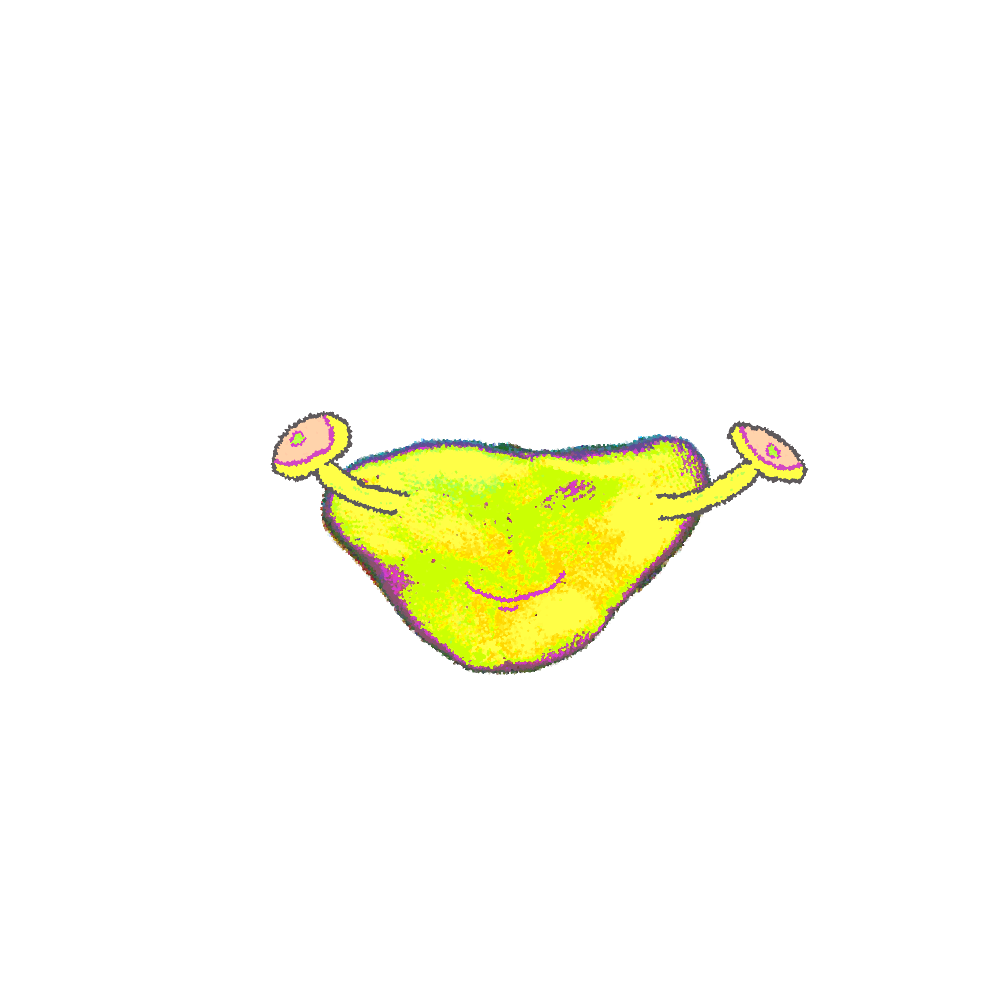
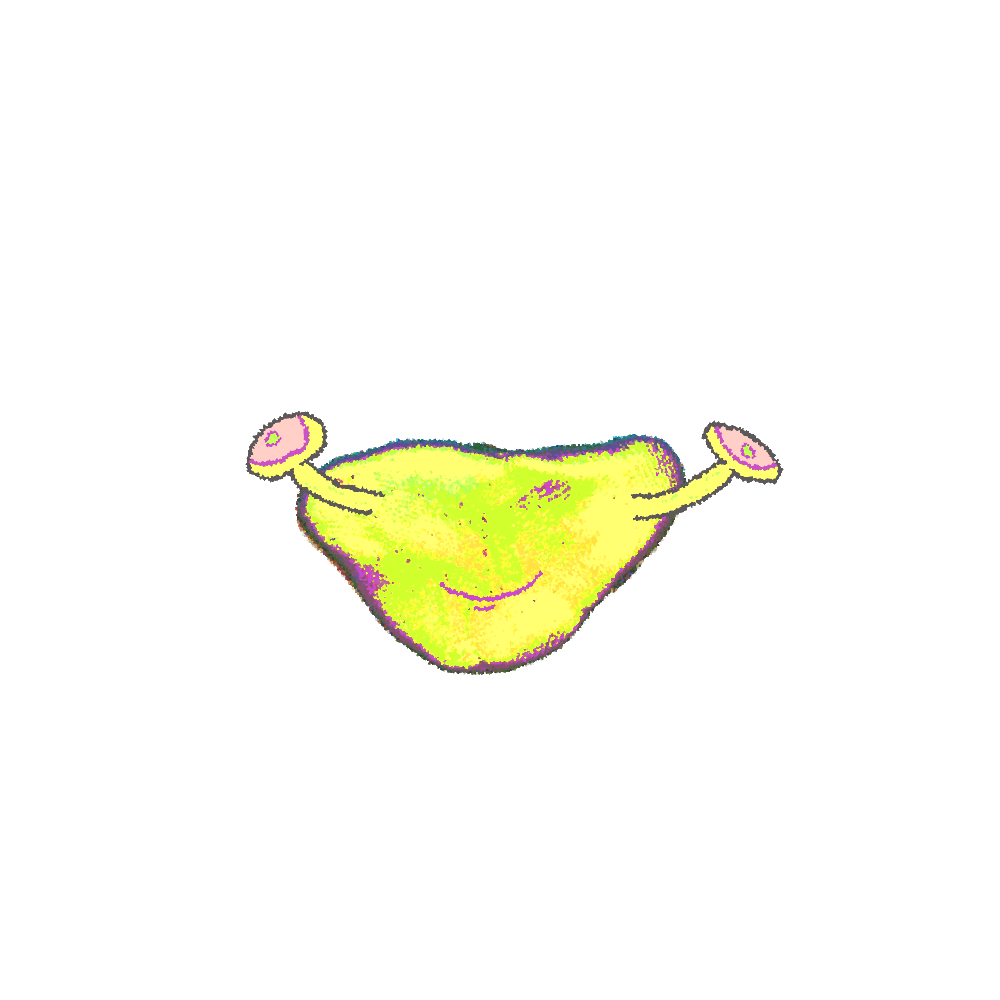
feat: npc updates

Changed region(s): [[0.248, 0.403, 0.806, 0.682]]

diff --git a/src/states/GameState.js b/src/states/GameState.js
@@ -413,7 +413,7 @@ const customerHandler = (customer, game, previousSave) => {
           npc_dictionary.npcs[game.current_customer_index].sprite_sheet &&
           !game.secretShopperCustomer
         ) {
-          object.play("glob_talk");
+          object.play(npc_dictionary.npcs[game.current_customer_index].sprite_sheet.talk);
           //game.talk_sfx.play();
         }
         dialogHandler(text, game, true);
@@ -1807,6 +1807,72 @@ var GameState = {
       this.anims.create({
         key: "glob_angry",
         frames: this.anims.generateFrameNumbers("glob_man_sheet", {
+          frames: [3],
+        }),
+        frameRate: 1,
+        repeat: 0,
+      });
+    }
+
+    if (!this.anims.get("glob_talk2")) {
+      this.anims.create({
+        key: "glob_talk2",
+        frames: this.anims.generateFrameNumbers("glob_man2_sheet", {
+          frames: [1, 0],
+        }),
+        frameRate: 8,
+        repeat: 2,
+      });
+    }
+
+    if (!this.anims.get("glob_happy2")) {
+      this.anims.create({
+        key: "glob_happy2",
+        frames: this.anims.generateFrameNumbers("glob_man2_sheet", {
+          frames: [2],
+        }),
+        frameRate: 1,
+        repeat: 0,
+      });
+    }
+
+    if (!this.anims.get("glob_angry2")) {
+      this.anims.create({
+        key: "glob_angry2",
+        frames: this.anims.generateFrameNumbers("glob_man2_sheet", {
+          frames: [3],
+        }),
+        frameRate: 1,
+        repeat: 0,
+      });
+    }
+
+    if (!this.anims.get("glob_talk3")) {
+      this.anims.create({
+        key: "glob_talk3",
+        frames: this.anims.generateFrameNumbers("glob_man3_sheet", {
+          frames: [1, 0],
+        }),
+        frameRate: 8,
+        repeat: 2,
+      });
+    }
+
+    if (!this.anims.get("glob_happy3")) {
+      this.anims.create({
+        key: "glob_happy3",
+        frames: this.anims.generateFrameNumbers("glob_man3_sheet", {
+          frames: [2],
+        }),
+        frameRate: 1,
+        repeat: 0,
+      });
+    }
+
+    if (!this.anims.get("glob_angry3")) {
+      this.anims.create({
+        key: "glob_angry3",
+        frames: this.anims.generateFrameNumbers("glob_man3_sheet", {
           frames: [3],
         }),
         frameRate: 1,

diff --git a/src/modules/OrderSubmittedHandler.js b/src/modules/OrderSubmittedHandler.js
@@ -249,7 +249,7 @@ const OrderSubmittedHandler = (game, dialogHandler, event) => {
       case "pragmaticparty": {
         presentationStat += 1;
         punctualityStat += 1;
-        precisionStat += 1;
+        precisionStat -= 1;
         //pleasantryStat += 1;
         allActivatedMods.push("pragmaticparty");
         break;
@@ -475,7 +475,7 @@ const OrderSubmittedHandler = (game, dialogHandler, event) => {
         parseFloat(new_total_globs) + parseFloat((pleasantryStat / 100) * 20);
       if (npc_info.sprite_sheet) {
         // if its the glorb then make it smile
-        game.npc.play("glob_happy");
+        game.npc.play(npc_dictionary.npcs[game.current_customer_index].sprite_sheet.happy);
       }
       new_total_globs += moneyAddition;
       game.registry.set("Globble", new_total_globs.toFixed(2));
@@ -641,7 +641,7 @@ const OrderSubmittedHandler = (game, dialogHandler, event) => {
       }
       //game.registry.set("ChangedHealth", true);
       if (npc_info.sprite_sheet) {
-        game.npc.play("glob_angry");
+        game.npc.play(npc_dictionary.npcs[game.current_customer_index].sprite_sheet.angry);
       }
     }
 

diff --git a/src/states/LoadState.js b/src/states/LoadState.js
@@ -56,6 +56,8 @@ import particle1 from "../assets/game/special/particle2.png";
 // SPRITESHEET ASSETS
 
 import glob_man_sheet from "../assets/game/spritesheets/glob_man_sprite_sheet.png";
+import glob_man2_sheet from "../assets/game/spritesheets/glob_man2_sprite_sheet.png"
+import glob_man3_sheet from "../assets/game/spritesheets/glob_man3_sprite_sheet.png"
 import penguinclap from "../assets/game/spritesheets/penguinclap2.png";
 
 // KITCHEN ASSETS
@@ -296,6 +298,14 @@ var LoadState = {
 
     //this.load.audio("cluttered_ambience2", cluttered_ambience2);
     this.load.spritesheet("glob_man_sheet", glob_man_sheet, {
+      frameWidth: 1000,
+      frameHeight: 1000,
+    });
+    this.load.spritesheet("glob_man2_sheet", glob_man2_sheet, {
+      frameWidth: 1000,
+      frameHeight: 1000,
+    });
+        this.load.spritesheet("glob_man3_sheet", glob_man3_sheet, {
       frameWidth: 1000,
       frameHeight: 1000,
     });

diff --git a/src/dictonaries/notes.jsx b/src/dictonaries/notes.jsx
@@ -112,8 +112,8 @@ var notes = {
       },
     ],
   },
-  "Grugory Hefert": {
-    key: "Grugory Hefert",
+  "Gregory Hefert": {
+    key: "Gregory Hefert",
     order: "random",
     chance: 4,
     startday: 4,
